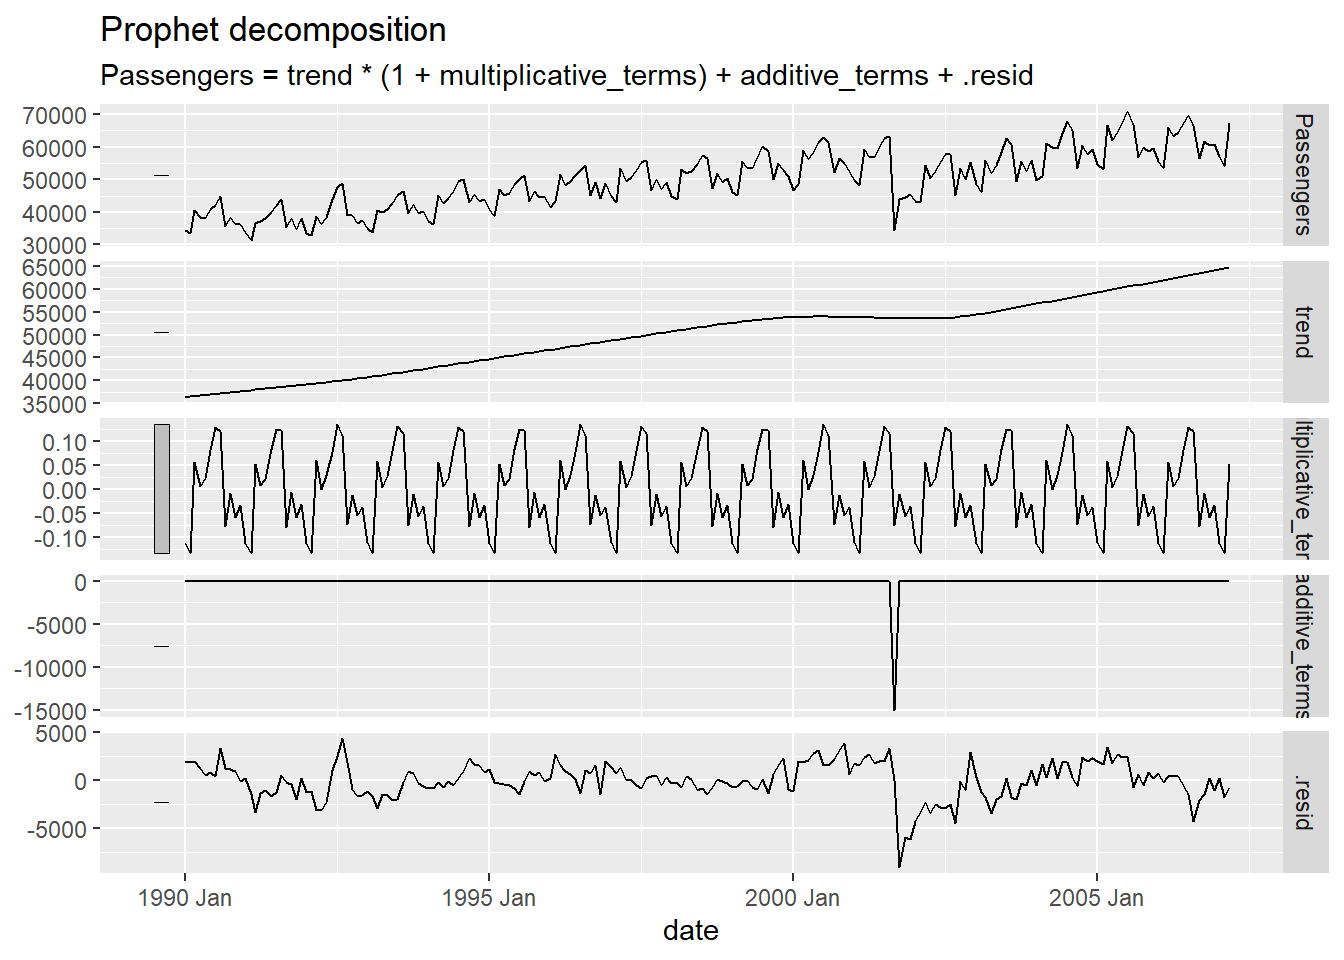
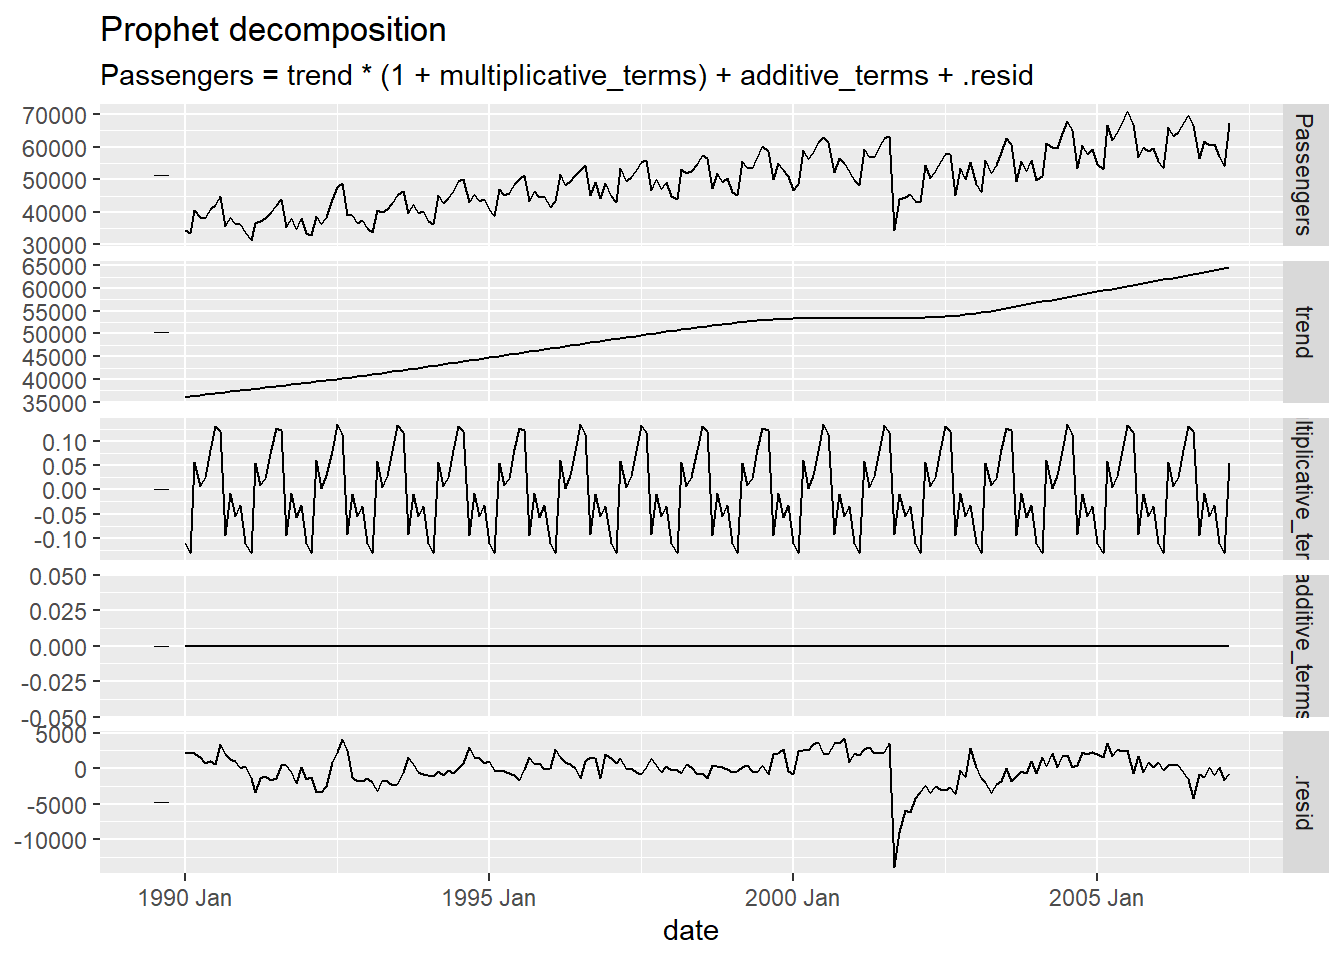
Took out intervention variable.

diff --git a/docs/prophet.html b/docs/prophet.html
@@ -310,17 +310,10 @@ X_W = \cos(\frac{2\pi t}{7}) + \sin(2 \times \frac{2\pi t}{7}) + \cos(3 \times \
 <div id="r-7" class="section level3 hasAnchor" number="7.1.1">
 <h3><span class="header-section-number">7.1.1</span> R<a href="prophet.html#r-7" class="anchor-section" aria-label="Anchor link to header"></a></h3>
 <p>The fable.prophet package contains all the functions needed for the Prophet algorithm. For our dataset we have a point intervention at September, 2001. We can easily create a binary variable that takes a value of 1 during that month and 0 otherwise. By using the formula structure in the prophet function in the model function, we can add this intervention to our model as well as build out the other components of the Prophet model. Next, we will add the growth component (growth function) where we specify the trend to be linear (“linear”). Lastly, we use the season function to add our own monthly seasonality. We have period = “year” to define the annual season in our data and the order = 6 to define the fourier terms. We will use 6 as we did back in the dynamic regression section. From there we will decide whether we want this seasonal effect to be additive or multiplicative. We choose multiplicative based on the other seasonal models we have built being this structure. Of course, you can always try both to see which works better.</p>
-<div class="sourceCode" id="cb1"><pre class="sourceCode r"><code class="sourceCode r"><span id="cb1-1"><a href="prophet.html#cb1-1" tabindex="-1"></a><span class="co">#| message: false</span></span>
-<span id="cb1-2"><a href="prophet.html#cb1-2" tabindex="-1"></a></span>
-<span id="cb1-3"><a href="prophet.html#cb1-3" tabindex="-1"></a><span class="fu">library</span>(fable.prophet)</span></code></pre></div>
+<div class="sourceCode" id="cb1"><pre class="sourceCode r"><code class="sourceCode r"><span id="cb1-1"><a href="prophet.html#cb1-1" tabindex="-1"></a><span class="fu">library</span>(fable.prophet)</span></code></pre></div>
 <pre><code>## Warning: package &#39;fable.prophet&#39; was built under R version 4.5.2</code></pre>
-<div class="sourceCode" id="cb3"><pre class="sourceCode r"><code class="sourceCode r"><span id="cb3-1"><a href="prophet.html#cb3-1" tabindex="-1"></a>train<span class="sc">$</span>Sep11 <span class="ot">&lt;-</span> <span class="fu">rep</span>(<span class="dv">0</span>, <span class="dv">207</span>)</span>
-<span id="cb3-2"><a href="prophet.html#cb3-2" tabindex="-1"></a>train<span class="sc">$</span>Sep11[<span class="dv">141</span>] <span class="ot">&lt;-</span> <span class="dv">1</span></span>
-<span id="cb3-3"><a href="prophet.html#cb3-3" tabindex="-1"></a></span>
-<span id="cb3-4"><a href="prophet.html#cb3-4" tabindex="-1"></a>model_prophet <span class="ot">&lt;-</span> train <span class="sc">%&gt;%</span></span>
-<span id="cb3-5"><a href="prophet.html#cb3-5" tabindex="-1"></a>  <span class="fu">model</span>(<span class="fu">prophet</span>(Passengers <span class="sc">~</span> Sep11 <span class="sc">+</span></span>
-<span id="cb3-6"><a href="prophet.html#cb3-6" tabindex="-1"></a>                  <span class="fu">growth</span>(<span class="st">&quot;linear&quot;</span>) <span class="sc">+</span> </span>
-<span id="cb3-7"><a href="prophet.html#cb3-7" tabindex="-1"></a>                  <span class="fu">season</span>(<span class="at">period =</span> <span class="st">&quot;year&quot;</span>, <span class="at">order =</span> <span class="dv">6</span>, <span class="at">type =</span> <span class="st">&quot;multiplicative&quot;</span>)))</span></code></pre></div>
+<div class="sourceCode" id="cb3"><pre class="sourceCode r"><code class="sourceCode r"><span id="cb3-1"><a href="prophet.html#cb3-1" tabindex="-1"></a>model_prophet <span class="ot">&lt;-</span> train <span class="sc">%&gt;%</span></span>
+<span id="cb3-2"><a href="prophet.html#cb3-2" tabindex="-1"></a>  <span class="fu">model</span>(<span class="fu">prophet</span>(Passengers <span class="sc">~</span>  <span class="fu">season</span>(<span class="at">period =</span> <span class="st">&quot;year&quot;</span>, <span class="at">order =</span> <span class="dv">6</span>, <span class="at">type =</span> <span class="st">&quot;multiplicative&quot;</span>)))</span></code></pre></div>
 <p>Once the model is built, we can plot the components function with the autoplot function to view the components of the Prophet model that were calculated from our data.</p>
 <div class="sourceCode" id="cb4"><pre class="sourceCode r"><code class="sourceCode r"><span id="cb4-1"><a href="prophet.html#cb4-1" tabindex="-1"></a>model_prophet <span class="sc">%&gt;%</span> </span>
 <span id="cb4-2"><a href="prophet.html#cb4-2" tabindex="-1"></a>  <span class="fu">components</span>() <span class="sc">%&gt;%</span></span>
@@ -335,18 +328,16 @@ X_W = \cos(\frac{2\pi t}{7}) + \sin(2 \times \frac{2\pi t}{7}) + \cos(3 \times \
 <pre><code>## # A tibble: 1 × 3
 ##   .model                                                       lb_stat lb_pvalue
 ##   &lt;chr&gt;                                                          &lt;dbl&gt;     &lt;dbl&gt;
-## 1 &quot;prophet(Passengers ~ Sep11 + growth(\&quot;linear\&quot;) + season(p…    431.         0</code></pre>
+## 1 &quot;prophet(Passengers ~ season(period = \&quot;year\&quot;, order = 6, …    366.         0</code></pre>
 <p>Looks like our residuals still have some autocorrelation in them so further pattern exists. This isn’t surprising as the Prophet algorithm was never designed to be a statistical algorithm that removes all the autocorrelation from the data like an ARIMA model.</p>
 <p>Now let’s forecast the Prophet model for our data. To forecast these values going forward, we need future values of our predictor variable. For this dataset, we have our Sep11 variable that we forecast to have values of 0 for each of the 12 observations we are forecasting for airline passengers. To do this we create another variable (of the same name) that has future values in our test dataset. We then use the forecast function with both the model and the test dataset as inputs. The forecast function will be expecting a test dataset that contains the Sep11 variable in it. We also plot the forecast.</p>
-<div class="sourceCode" id="cb8"><pre class="sourceCode r"><code class="sourceCode r"><span id="cb8-1"><a href="prophet.html#cb8-1" tabindex="-1"></a>test<span class="sc">$</span>Sep11 <span class="ot">&lt;-</span> <span class="fu">rep</span>(<span class="dv">0</span>, <span class="dv">12</span>)</span>
+<div class="sourceCode" id="cb8"><pre class="sourceCode r"><code class="sourceCode r"><span id="cb8-1"><a href="prophet.html#cb8-1" tabindex="-1"></a>model_prophet_for <span class="ot">&lt;-</span> fabletools<span class="sc">::</span><span class="fu">forecast</span>(model_prophet, test)</span>
 <span id="cb8-2"><a href="prophet.html#cb8-2" tabindex="-1"></a></span>
-<span id="cb8-3"><a href="prophet.html#cb8-3" tabindex="-1"></a>model_prophet_for <span class="ot">&lt;-</span> fabletools<span class="sc">::</span><span class="fu">forecast</span>(model_prophet, test)</span>
-<span id="cb8-4"><a href="prophet.html#cb8-4" tabindex="-1"></a></span>
-<span id="cb8-5"><a href="prophet.html#cb8-5" tabindex="-1"></a>model_prophet_for <span class="sc">%&gt;%</span></span>
-<span id="cb8-6"><a href="prophet.html#cb8-6" tabindex="-1"></a>  <span class="fu">autoplot</span>(train) <span class="sc">+</span> </span>
-<span id="cb8-7"><a href="prophet.html#cb8-7" tabindex="-1"></a>  <span class="fu">autolayer</span>(<span class="fu">fitted</span>(model_prophet), <span class="at">col =</span> <span class="st">&quot;blue&quot;</span>, <span class="at">linetype =</span> <span class="st">&quot;dashed&quot;</span>) <span class="sc">+</span> </span>
-<span id="cb8-8"><a href="prophet.html#cb8-8" tabindex="-1"></a>  <span class="fu">ylab</span>(<span class="st">&quot;Airlines Passengers&quot;</span>) <span class="sc">+</span> </span>
-<span id="cb8-9"><a href="prophet.html#cb8-9" tabindex="-1"></a>  <span class="fu">geom_vline</span>(<span class="at">xintercept =</span> <span class="fu">as_date</span>(<span class="st">&quot;2007-03-15&quot;</span>), <span class="at">color=</span><span class="st">&quot;orange&quot;</span>, <span class="at">linetype=</span><span class="st">&quot;longdash&quot;</span>)</span></code></pre></div>
+<span id="cb8-3"><a href="prophet.html#cb8-3" tabindex="-1"></a>model_prophet_for <span class="sc">%&gt;%</span></span>
+<span id="cb8-4"><a href="prophet.html#cb8-4" tabindex="-1"></a>  <span class="fu">autoplot</span>(train) <span class="sc">+</span> </span>
+<span id="cb8-5"><a href="prophet.html#cb8-5" tabindex="-1"></a>  <span class="fu">autolayer</span>(<span class="fu">fitted</span>(model_prophet), <span class="at">col =</span> <span class="st">&quot;blue&quot;</span>, <span class="at">linetype =</span> <span class="st">&quot;dashed&quot;</span>) <span class="sc">+</span> </span>
+<span id="cb8-6"><a href="prophet.html#cb8-6" tabindex="-1"></a>  <span class="fu">ylab</span>(<span class="st">&quot;Airlines Passengers&quot;</span>) <span class="sc">+</span> </span>
+<span id="cb8-7"><a href="prophet.html#cb8-7" tabindex="-1"></a>  <span class="fu">geom_vline</span>(<span class="at">xintercept =</span> <span class="fu">as_date</span>(<span class="st">&quot;2007-03-15&quot;</span>), <span class="at">color=</span><span class="st">&quot;orange&quot;</span>, <span class="at">linetype=</span><span class="st">&quot;longdash&quot;</span>)</span></code></pre></div>
 <pre><code>## Plot variable not specified, automatically selected `.vars = .fitted`</code></pre>
 <p><img src="bookdownproj_files/figure-html/unnamed-chunk-6-1.png" width="672" /></p>
 <p>We can use the accuracy function from the fabletools package to evaluate these forecasts. The only inputs for this function are the model object and the test dataset.</p>
@@ -354,7 +345,7 @@ X_W = \cos(\frac{2\pi t}{7}) + \sin(2 \times \frac{2\pi t}{7}) + \cos(3 \times \
 <pre><code>## # A tibble: 1 × 10
 ##   .model                .type     ME  RMSE   MAE   MPE  MAPE  MASE RMSSE    ACF1
 ##   &lt;chr&gt;                 &lt;chr&gt;  &lt;dbl&gt; &lt;dbl&gt; &lt;dbl&gt; &lt;dbl&gt; &lt;dbl&gt; &lt;dbl&gt; &lt;dbl&gt;   &lt;dbl&gt;
-## 1 &quot;prophet(Passengers … Test  -1378. 1772. 1458. -2.15  2.27   NaN   NaN -0.0158</code></pre>
+## 1 &quot;prophet(Passengers … Test  -1160. 1598. 1229. -1.79  1.90   NaN   NaN -0.0561</code></pre>
 <p>It appears as if the Prophet model was not as accurate as some of the other approaches that we have used to model our data. The possible reasoning for this is discussed in the forecasting section below.</p>
 </div>
 <div id="python-7" class="section level3 hasAnchor" number="7.1.2">
@@ -374,9 +365,9 @@ X_W = \cos(\frac{2\pi t}{7}) + \sin(2 \times \frac{2\pi t}{7}) + \cos(3 \times \
 <span id="cb12-11"><a href="prophet.html#cb12-11" tabindex="-1"></a></span>
 <span id="cb12-12"><a href="prophet.html#cb12-12" tabindex="-1"></a>m <span class="op">=</span> Prophet(seasonality_mode<span class="op">=</span><span class="st">&#39;multiplicative&#39;</span>)</span>
 <span id="cb12-13"><a href="prophet.html#cb12-13" tabindex="-1"></a>m.add_regressor(<span class="st">&#39;Sep11&#39;</span>)</span></code></pre></div>
-<pre><code>## &lt;prophet.forecaster.Prophet object at 0x0000012A95746630&gt;</code></pre>
+<pre><code>## &lt;prophet.forecaster.Prophet object at 0x00000285FE8FAA50&gt;</code></pre>
 <div class="sourceCode" id="cb14"><pre class="sourceCode python"><code class="sourceCode python"><span id="cb14-1"><a href="prophet.html#cb14-1" tabindex="-1"></a>m.fit(train_sf_X)</span></code></pre></div>
-<pre><code>## &lt;prophet.forecaster.Prophet object at 0x0000012A95746630&gt;</code></pre>
+<pre><code>## &lt;prophet.forecaster.Prophet object at 0x00000285FE8FAA50&gt;</code></pre>
 <p>Let’s also evaluate the residuals from this model using the acorr_ljungbox from the statsmodels package on the residuals from our model to test for white noise. First we need to calculate the residuals. To do this we need the predict function on our model to give us the predicted values of our training data. From there we calculate the residuals by taking these predicted values and subtracting them from the true values of our target variable y.</p>
 <div class="sourceCode" id="cb16"><pre class="sourceCode python"><code class="sourceCode python"><span id="cb16-1"><a href="prophet.html#cb16-1" tabindex="-1"></a>fitted <span class="op">=</span> m.predict()</span>
 <span id="cb16-2"><a href="prophet.html#cb16-2" tabindex="-1"></a>train_sf_X <span class="op">=</span> train_sf_X.merge(fitted, on <span class="op">=</span> <span class="st">&#39;ds&#39;</span>)</span>
